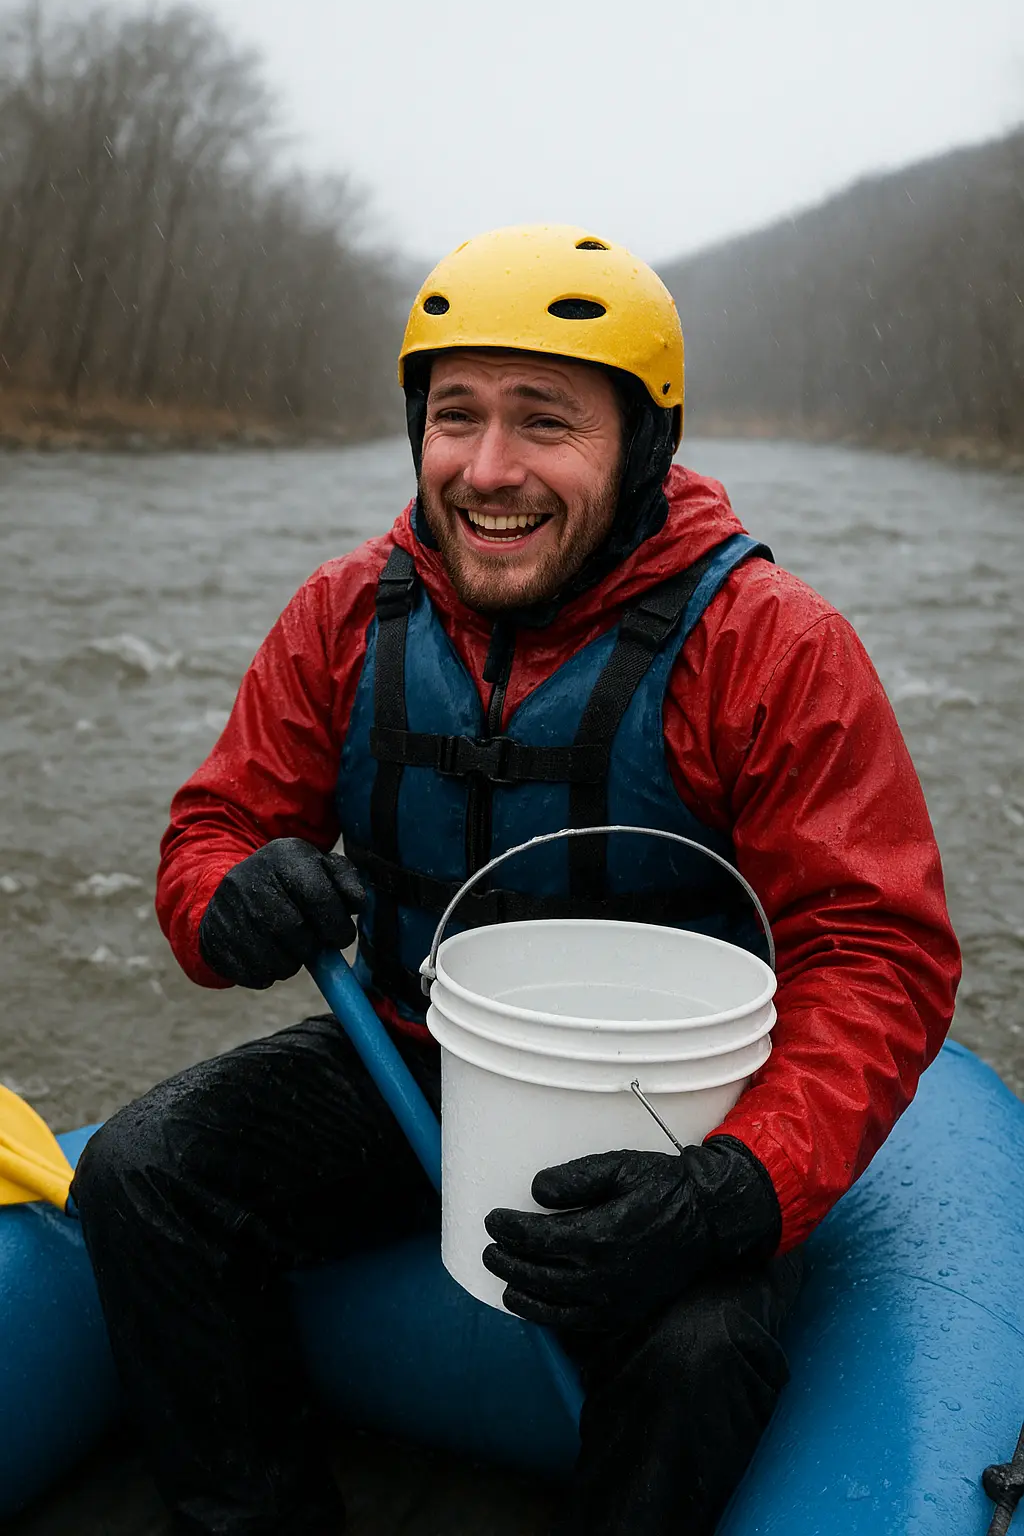
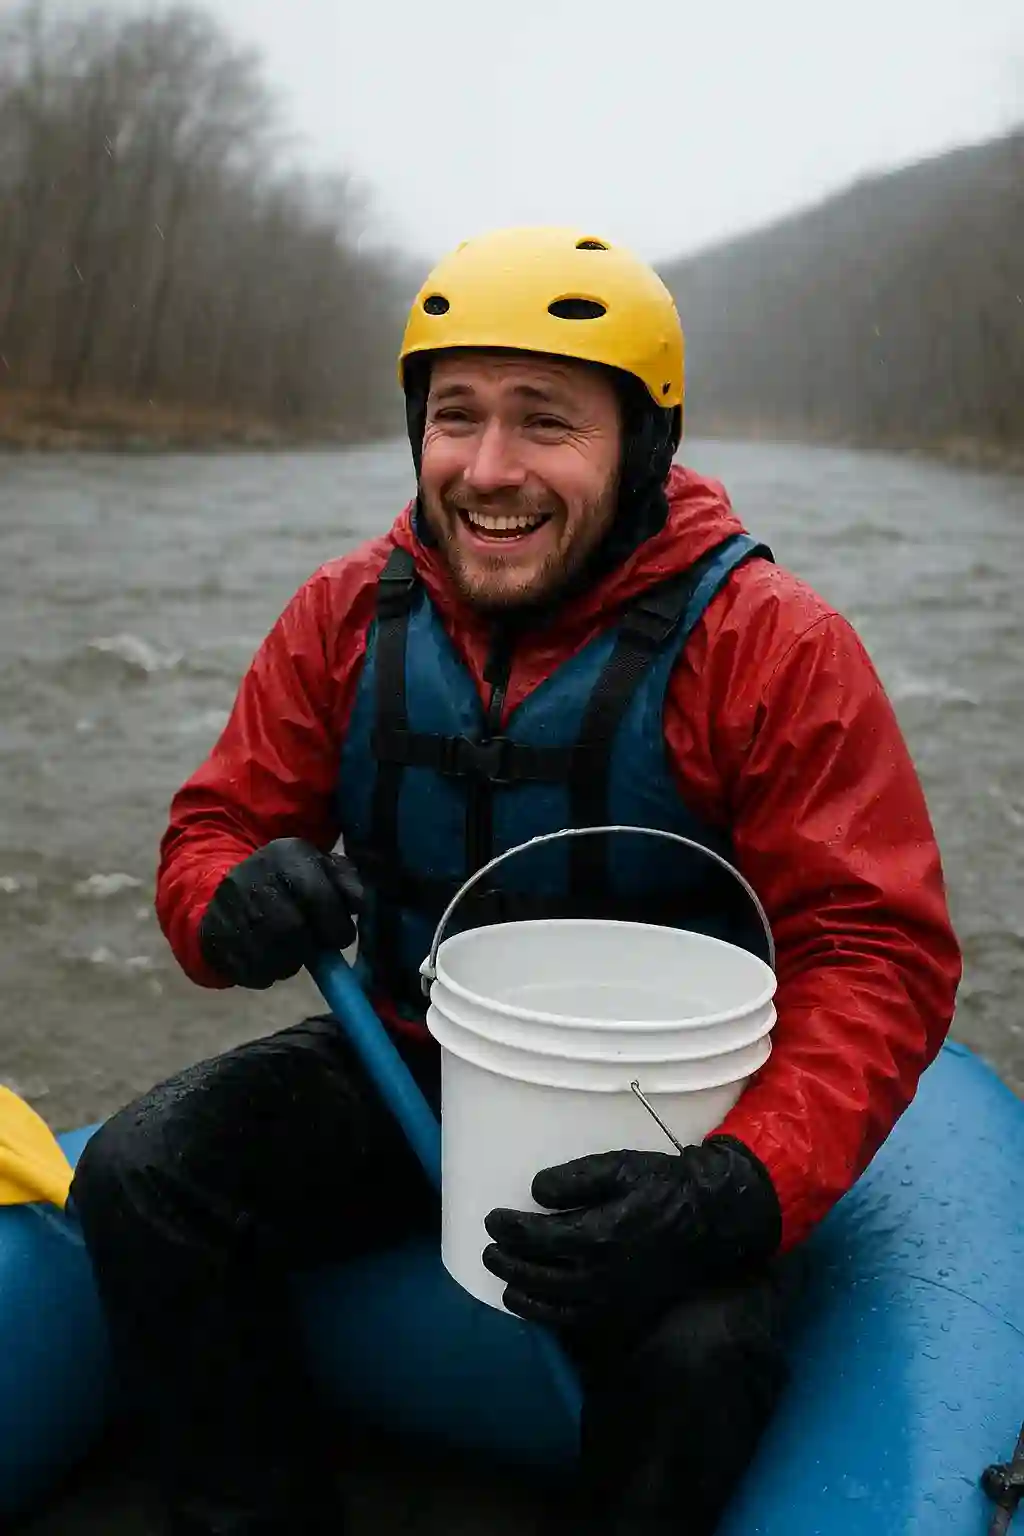
fix images

diff --git a/wwr/about.html b/wwr/about.html
@@ -42,7 +42,7 @@
     <section class="adventure box">
       <div class="box-title">Adventure Awaits You!</div>
       <figure>
-        <img src="images/river.jpg" alt="River">
+        <img src="images/river.webp" alt="River">
         <figcaption>The Big Freeze</figcaption>
       </figure>
       <figure>
@@ -54,7 +54,7 @@
         <figcaption>Camp Ice Cool</figcaption>
       </figure>
       <figure>
-        <img src="images/cheer.jpg" alt="Cheer">
+        <img src="images/cheer.webp" alt="Cheer">
         <figcaption>The Peak</figcaption>
       </figure>
       <figure>
